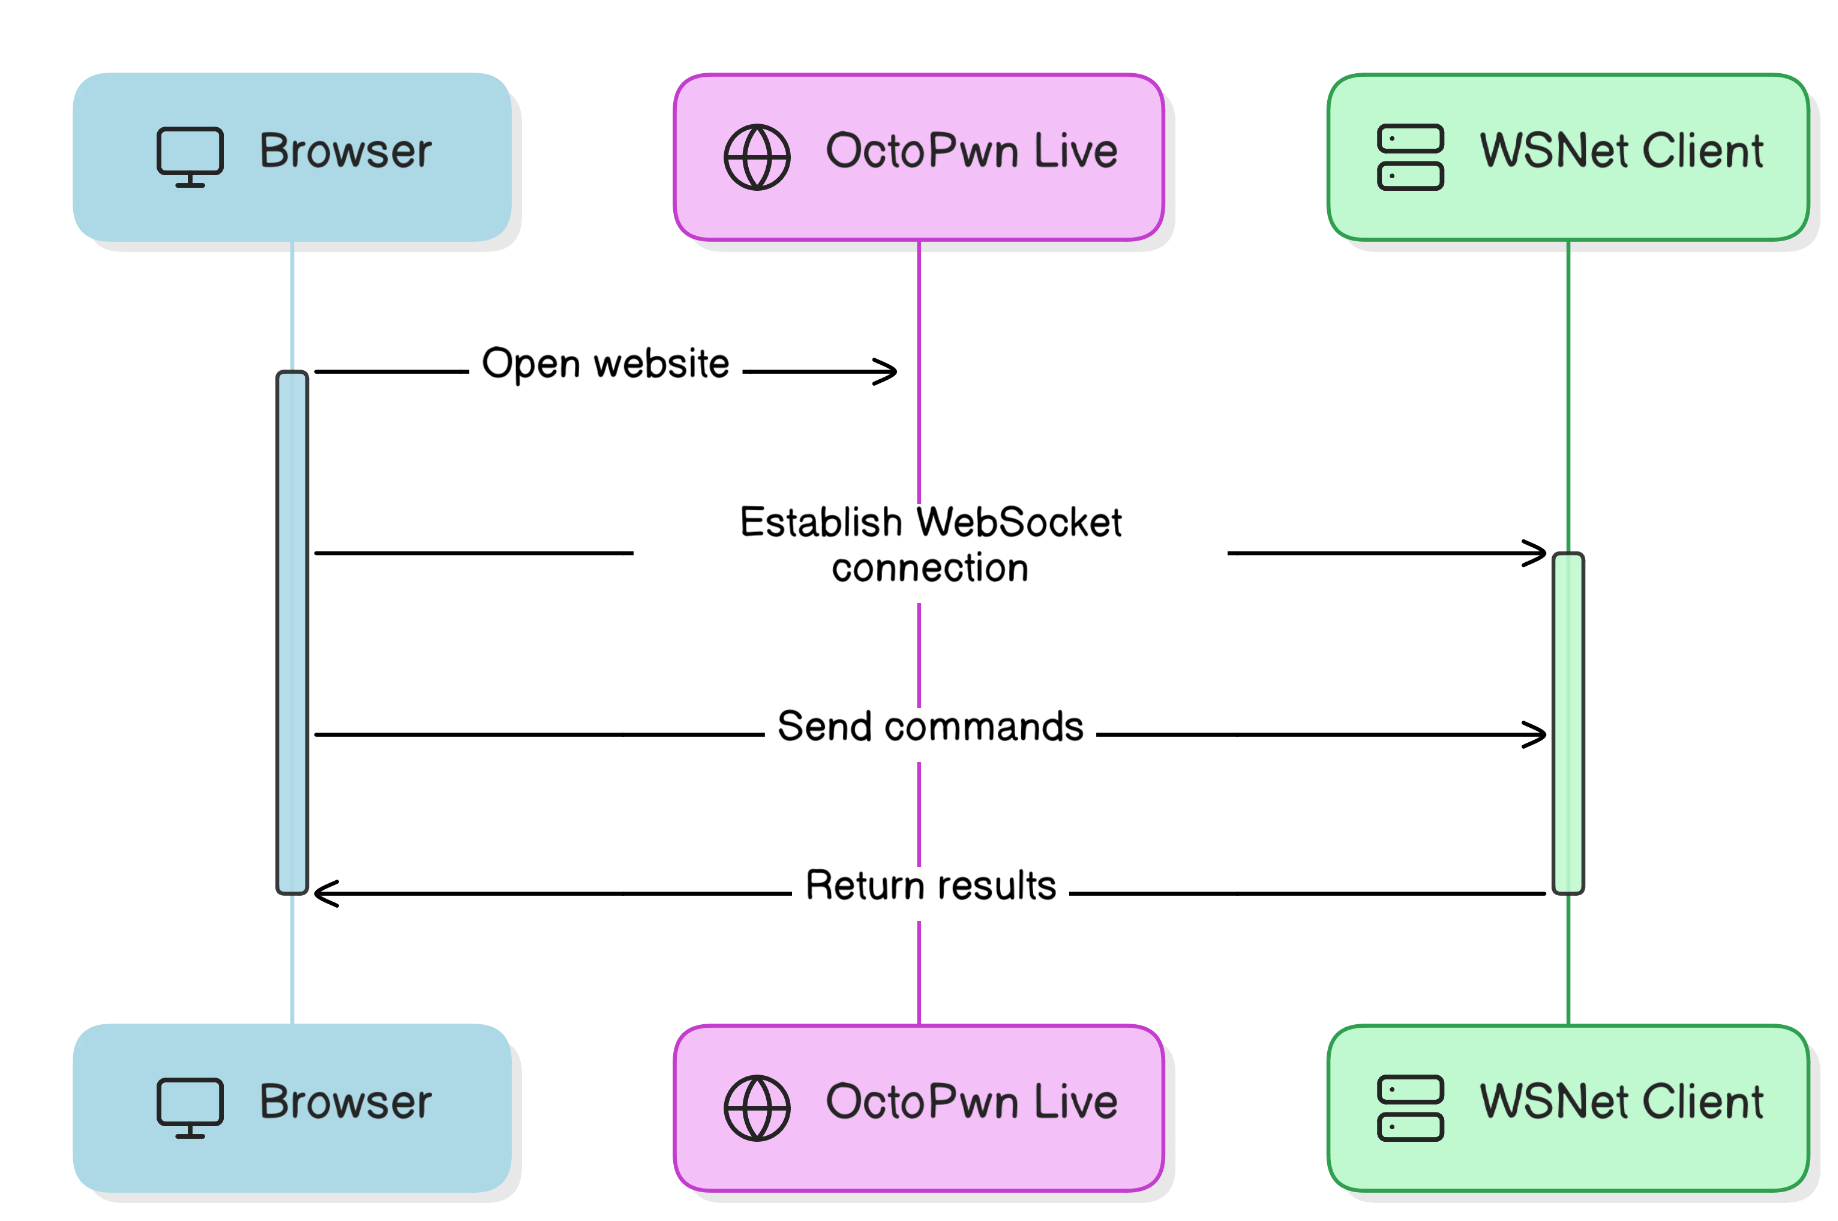
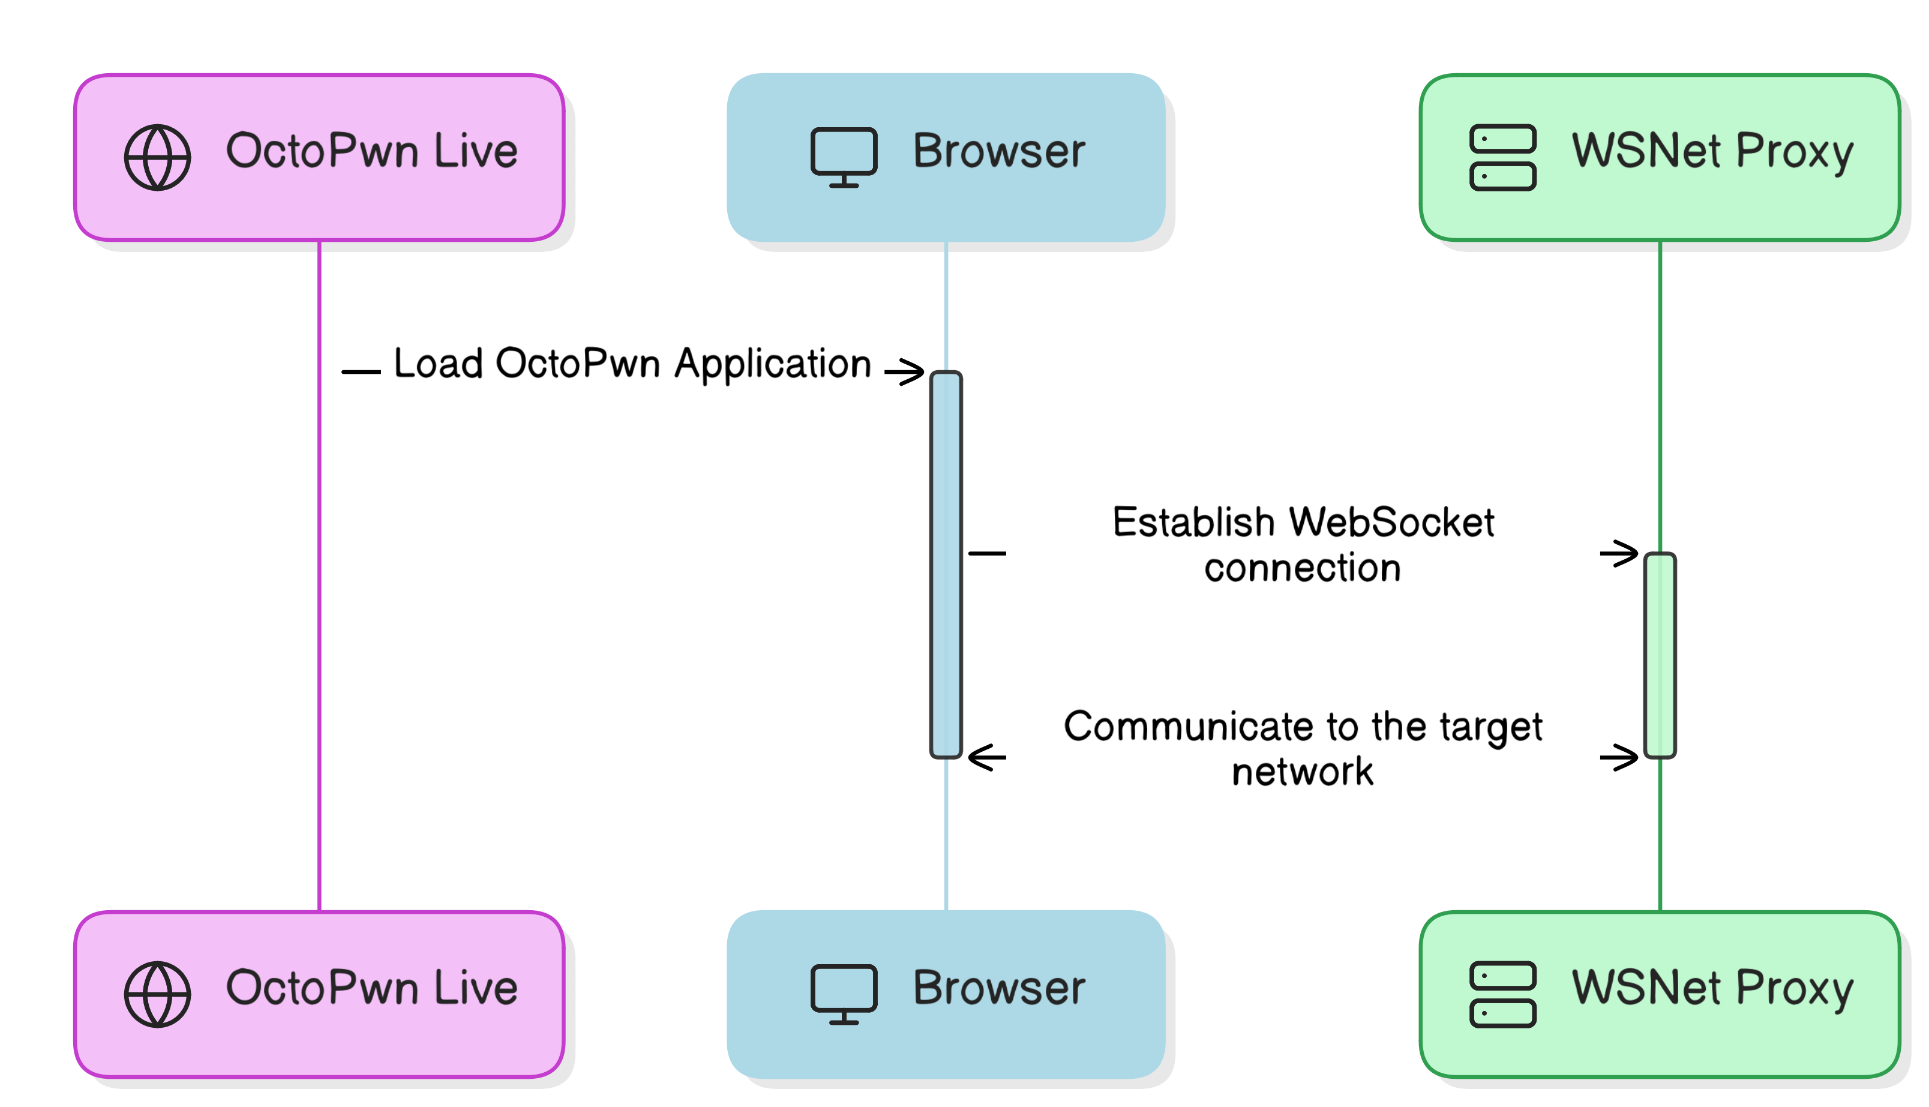
Getting started updates

Changed region(s): [[0.031, 0.0614, 0.9924, 0.9828], [0.3411, 0.7986, 0.6513, 0.9828], [0.3411, 0.0614, 0.6513, 0.2457]]

diff --git a/docs/user-guide/gettingstarted.md b/docs/user-guide/gettingstarted.md
@@ -3,14 +3,20 @@
 
 ![](img/octopwn-schematics.png)
 
-OctoPwn consists of two components. 
+OctoPwn consists of three components. 
 
-1. A web gui client [available at live.octopwn.com](https://live.octopwn.com) containing all the pentesting tools in your browser. Login with your your OctoPwn credentials or choose the free Community version.
-
-2. A WebSocket-to-TCP translation client ([wsnet](https://github.com/octopwn/wsnet)) which will run on a host in the attack target's network. For getting started it is assumed that both will run on the same computer on Windows. You can download the client for your system as needed. 
+1. The Octopwn Live website [available at live.octopwn.com](https://live.octopwn.com). This will load the octopwn application into your browser. Login with your your OctoPwn credentials or choose the free Community version. 
+2. Your browser. After loading the application all interaction and pentesting tools run locally in your browser. Octopwn will only communicate locally via the WSNet Proxy and all data entered is only stored in your browser. 
+3. A WebSocket-to-TCP translation proxy ([wsnet](https://github.com/octopwn/wsnet)) which will run on a host in the attack target's network. For getting started it is assumed that both will run on the same computer. The proxy is used to forward traffic into the target network only, all logic regarding attacks is implemented in the browser. You can download the client for your system as needed. 
 ## Getting Started
 
 1. Go to [live.octopwn.com](https://live.octopwn.com) and log in with you OctoPwn credentials. You can sign up at [octopwn.com](https://octopwn.com). 
+
+	??? info "For Mac Users"
+		Safari is currently not supported and will result in connection errors. 
+	
+		 You might need enable local network access for the browser you are using. Go to `System Settings > Privacy & Security > Local Network` and enable your browser here. You might need local administrative privileges to enable this.
+
 2. Download and execute the [wsnet](https://github.com/octopwn/wsnet) client. This will by default open the local port 8700 for communication via websockets with your host machine. If you wish, you can also host the wsnet client on a different device. 
 
 	=== "Python (source)"
@@ -20,7 +26,7 @@ OctoPwn consists of two components.
 	     python -m venv venv
 		 source venv/bin/activate
 	     pip install .
-	     wsnet-wsserver
+	     wsnet-wssserver
 		```
 	=== "Python (executable)"
 		 Download and execute the wsserver executable for your platform from: 
@@ -32,7 +38,7 @@ OctoPwn consists of two components.
 		python3 -m venv venv
 		source venv/bin/activate
 		pip install wsnet
-		wsnet-wsserver
+		wsnet-wssserver
 		```
 
 	=== "Go"
@@ -44,11 +50,14 @@ OctoPwn consists of two components.
 	    ```
 	    https://github.com/octopwn/wsnet-dotnet/releases/latest
 	    ```
-	    
+
+
+
 3. Go back to your browser and enter the address of your local wsnet client in the Networking section `ws://127.0.0.1:8700/` and _Launch OctoPwn_.  
 
 	!!! info 
 		If you wish to test OctoPwn features you can use our provided test network by connecting to `wss://goad.octopwn.com/demo`. 
+
 
 ---
 ### Navigating the Interface
@@ -59,14 +68,13 @@ OctoPwn consists of two components.
 ### Core Functionalities
 
 You can find comprehensive information on core functionalities and usage here:
-* [Overview of clients](https://docs.octopwn.com/plugins/overview.html): 
-* 
 
-* [Overview of scanners](https://docs.octopwn.com/plugins/scanners/index.html)
-
-* [Overview of utilities](https://docs.octopwn.com/plugins/utils/index.html) 
-
-* Overview of proxies and proxy chains are coming soon
+* [Overview of clients](plugins/clients/overview.html): Clients allow you to interact on a protocol-level with various single services such SMB, LDAP and Kerberos. 
+* [Overview of scanners](plugins/scanners/index.html): Scanners allow you to scan multiple hosts based on previously defined target groups. You can for example scan for admin priviliges with a specified user, scan for sensitive files across multiple hosts. 
+* [Overview of servers](plugins/scanners/overview.html): Servers allow you to execute attacks that require a server component, such as NTLM Relaying and LLMNR/NBTNS Poisoning. This might require you to open a port on the firewall to receive the connections
+* [Overview of utilities](utils/index.html): Utilities allow you to run additional functionality that partly run only in the browser, such as pypykatz for lsass analysis, access a local IDE or run roadtools for cloud pentesting. 
+* [Overview of attacks](utils/attacks.html): Attacks allows an easy one-click experience for common attacks, such as Kerberoasting, DCSync, SAM Dump, ...
+* Overview of proxies and proxy chains are coming soon: For now, if you want to tunnel your traffic over a proxy, e.g. when using a C2 or want to tunnel your connection over RDP (e.g. with https://github.com/airbus-seclab/soxy), simply add the proxy with ip address and port and choose your proxy id (shown in the Proxies section in the right popout menu) when connecting a client or a scanner. 
 
 ---
 ### User Management
@@ -79,9 +87,9 @@ You can find comprehensive information on core functionalities and usage here:
 
 If you have purchased multiple licenses, you can assign one unassigned license to a user by inviting them from your account page on our [website](https://octopwn.com/account/login).
 
-1. Click on the chosen license on the "Assign license user" button you want to assign.
-2. Enter the email address of the invited person.
-3. The invited person will get an email shortly where they can set up an account and the license will get assigned and can be used immediately.
+4. Click on the chosen license on the "Assign license user" button you want to assign.
+5. Enter the email address of the invited person.
+6. The invited person will get an email shortly where they can set up an account and the license will get assigned and can be used immediately.
 
 Please note: 
 
@@ -94,9 +102,9 @@ Please note:
 
 If you cannot find the answer you are looking for in this documentation site, please feel free to:
 
-1. Write us an email to support at octopwn dot com.
-2. Contact us through the website at [https://octopwn.com/support](https://octopwn.com/support).
-3. Ask your question on our [Discord support channel](https://discord.gg/7amw5mD37Y).
+7. Write us an email to support at octopwn dot com.
+8. Contact us through the website at [https://octopwn.com/support](https://octopwn.com/support).
+9. Ask your question on our [Discord support channel](https://discord.gg/7amw5mD37Y).
 
 ---
 

diff --git a/docs/plugins/attacks/kerberoast.md b/docs/plugins/attacks/kerberoast.md
@@ -8,17 +8,20 @@ OctoPwn will automatically enumerate vulnerable accounts and run the attack on a
 
 ## Attack Overview
 
-1. **Prerequisites**:
+**Prerequisites**:
+
    - Valid domain credentials are required to request TGS tickets for service accounts.
    - Access to the domain controller or a Kerberos service is necessary.
 
-2. **Attack Steps**:
+**Attack Steps**:
+
    - Identify user accounts with an SPN set (e.g., service accounts). OctoPwn will do this for you automatically. 
    - Request the TGS ticket for these accounts.
    - Retrieve the ticket's hash.
    - Perform offline cracking of the hash using tools like **Hashcat** or **John the Ripper** to recover the service account's password.
 
-3. **Potential Outcomes**:
+**Potential Outcomes**:
+
    - Access to sensitive applications or data tied to the service account.
    - Lateral movement within the domain using the compromised account.
    - Escalation of privileges if the service account has administrative permissions.
@@ -40,6 +43,7 @@ Enter the ID of the proxy to route the attack through. Proxies must be configure
 Specifies the target domain controller. The attack target is always the domain controller in standard windows domains.
 
 A target can be specified in the following formats:
+
 - **ID**: ID of the target domain controller from the Targets Window.
 
 ---

diff --git a/docs/plugins/attacks/overview.md b/docs/plugins/attacks/overview.md
@@ -1,17 +1,1 @@
-Plugins are categorized as clients, scanners, servers, utils. 
-
-# Clients
-Clients act as fully functional protocl clients that allow both normal and security realted operations, some also interface with the File Browser Window to allow a better interface for file/object operations.
-
-To get started with clients you will need to add credentials and a target first.
-
-# Scanners
-Scanners 
-
-# Servers
-
-# Utils
-
-
-proxies: 
-socks proxy somewhere - chisel whatever 
+Attacks allows an easy one-click experience for common attacks, such as Kerberoasting, DCSync, SAM Dump, ...
